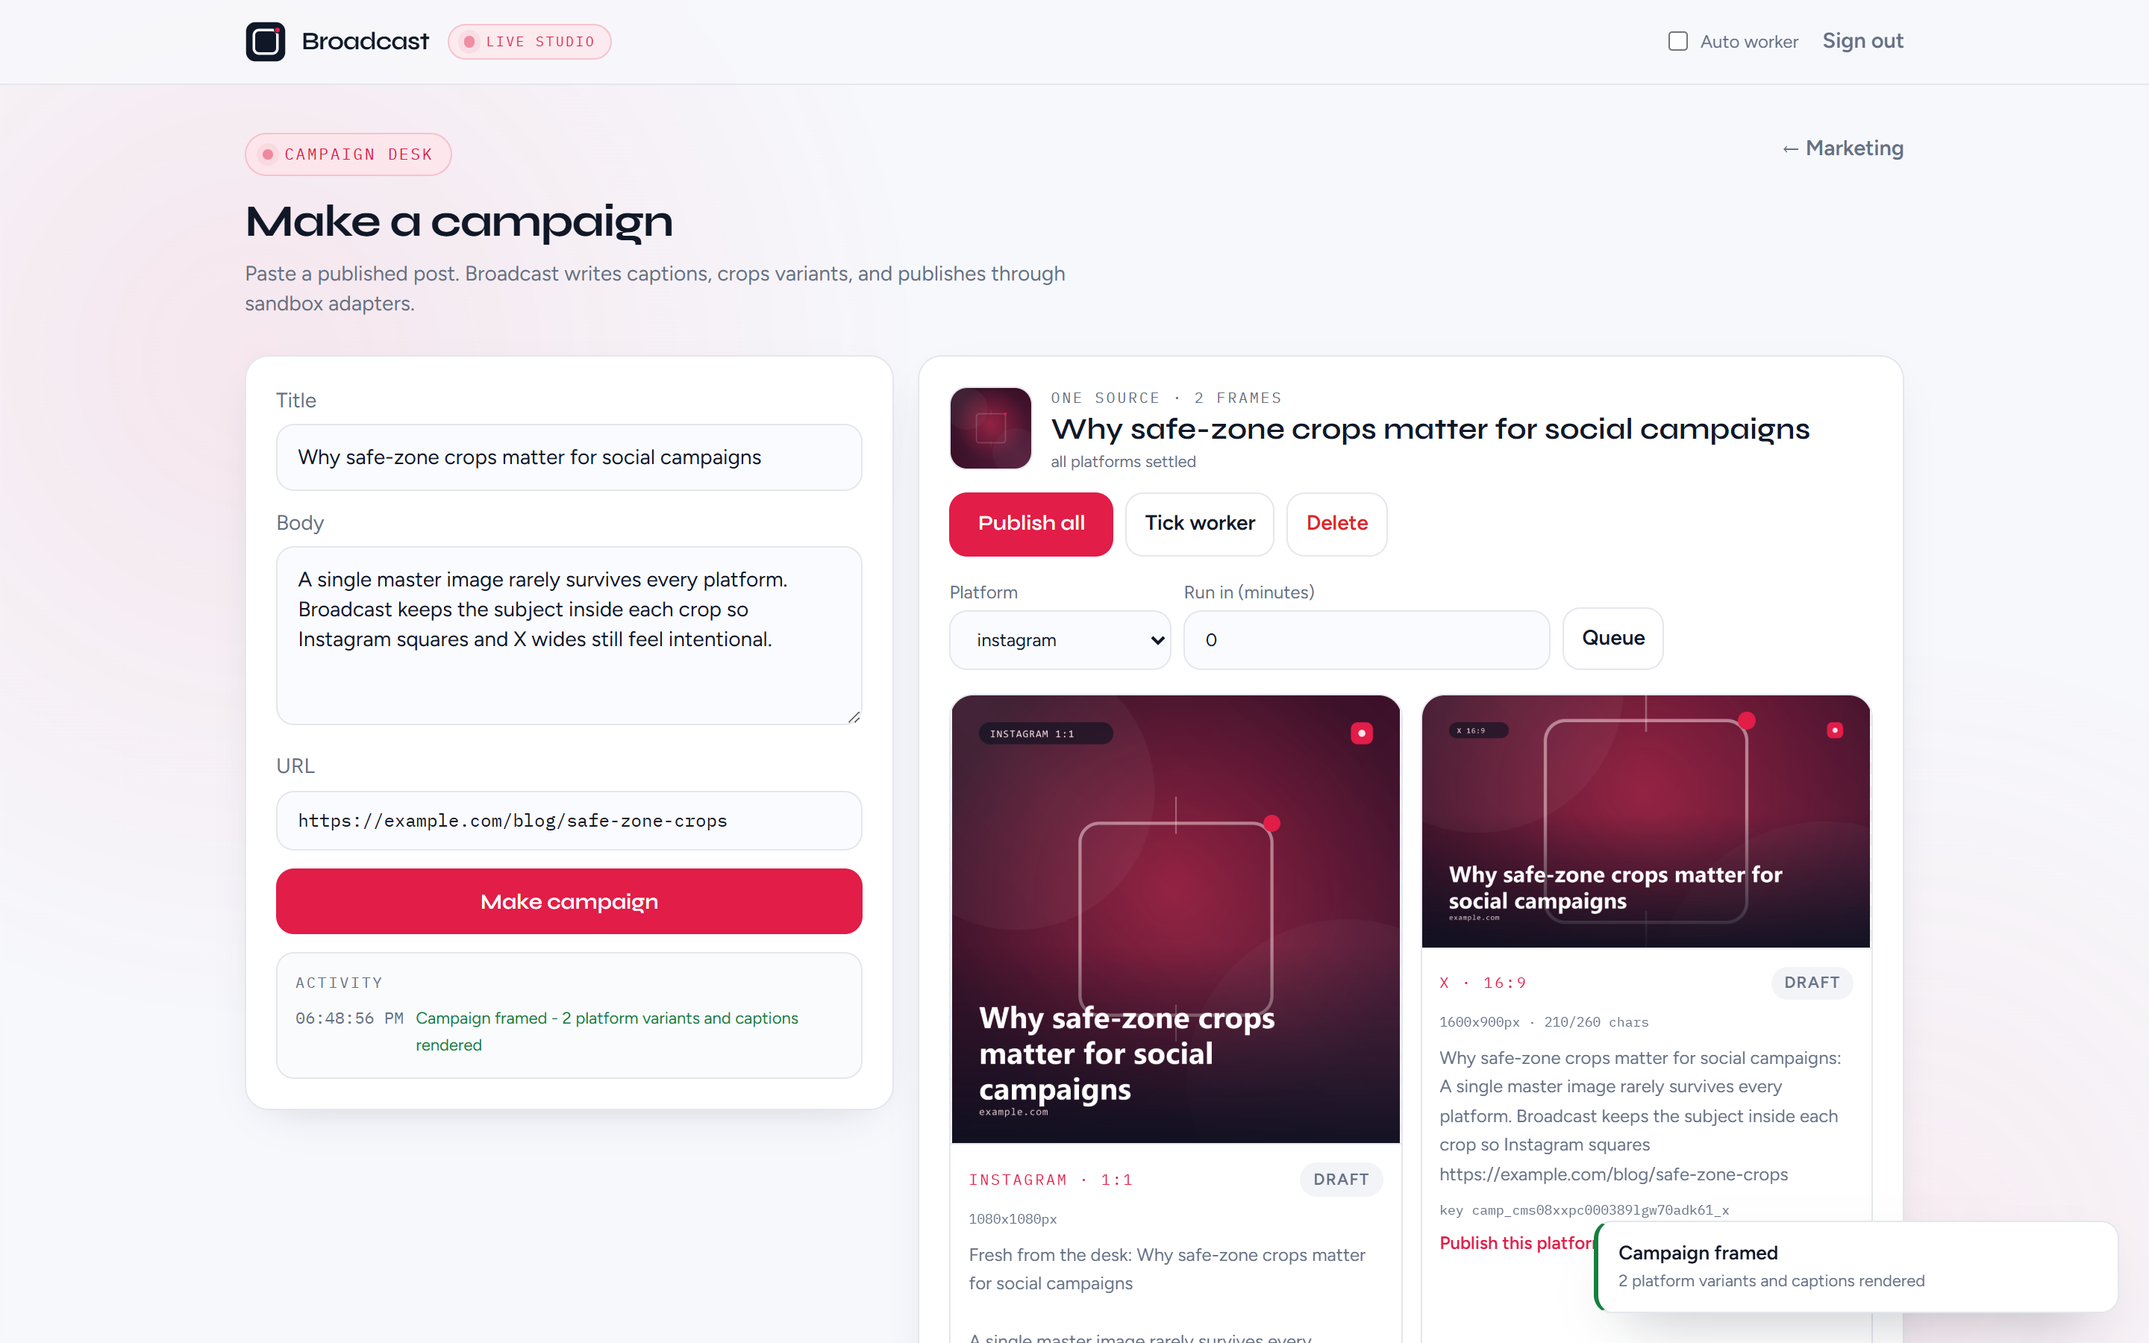
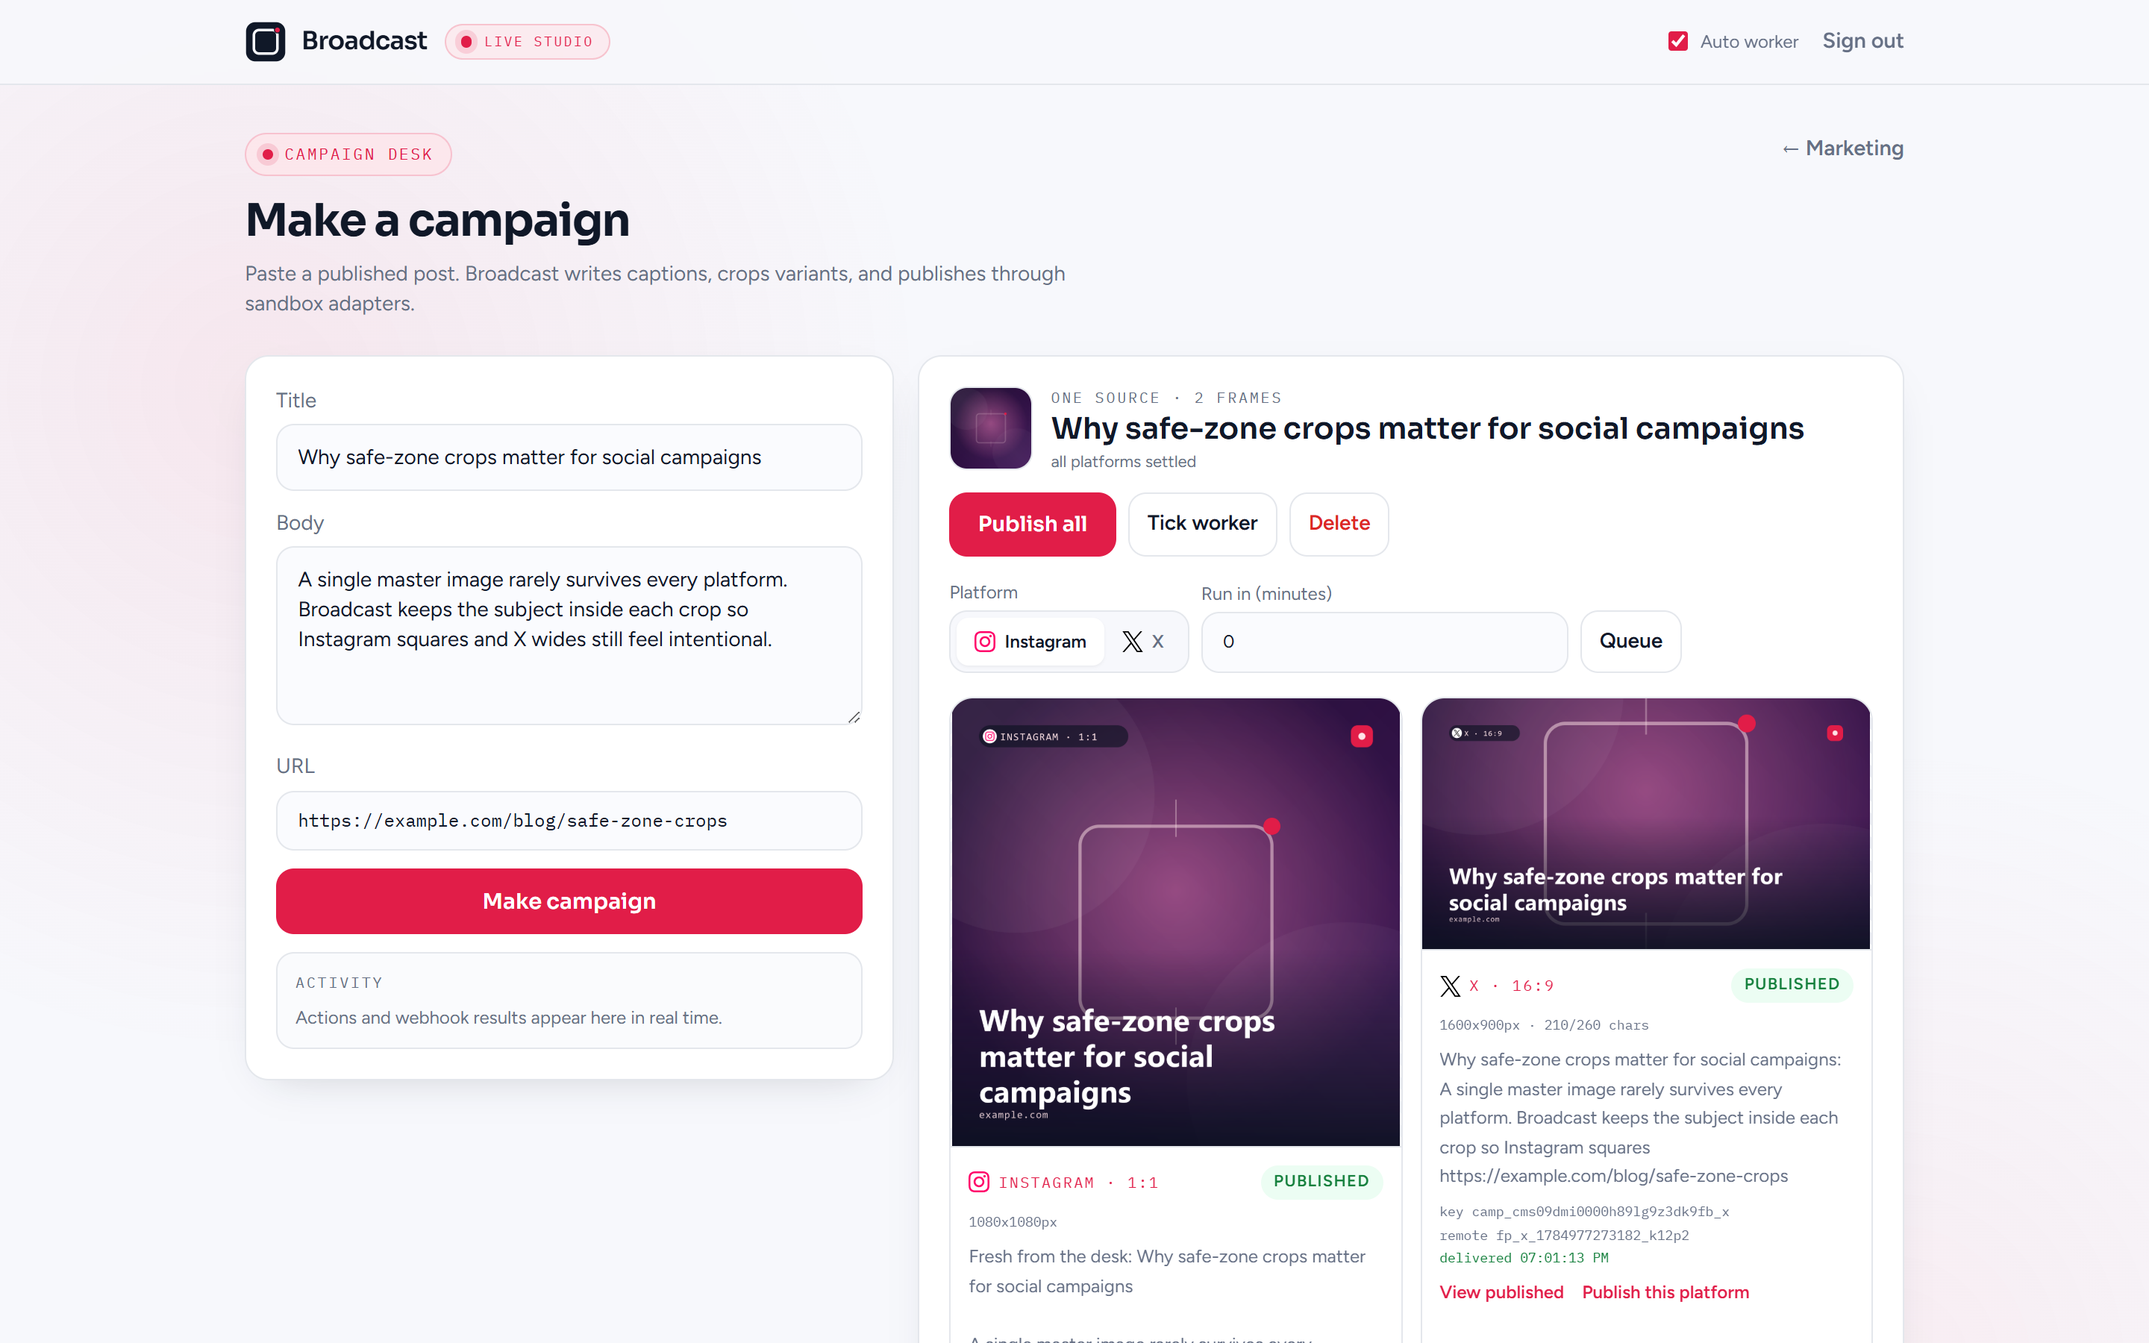
Use official Instagram and X glyphs across Broadcast

diff --git a/app/campaigns/campaigns-client.tsx b/app/campaigns/campaigns-client.tsx
@@ -4,6 +4,7 @@ import { useCallback, useEffect, useRef, useState } from "react";
 import Link from "next/link";
 import { motion, useReducedMotion } from "framer-motion";
 import { BrandLockup } from "@/components/BrandMark";
+import { PlatformIcon } from "@/components/PlatformIcon";
 
 type Post = {
   id: string;
@@ -511,20 +512,27 @@ export function CampaignsClient() {
                 </div>
 
                 <div className="flex flex-wrap items-end gap-2 mb-4">
-                  <label className="text-xs text-muted">
-                    Platform
-                    <select
-                      className="input-field !mt-1"
-                      value={schedulePlatform}
-                      onChange={(e) => setSchedulePlatform(e.target.value)}
-                    >
+                  <fieldset className="text-xs text-muted">
+                    <legend>Platform</legend>
+                    <div className="mt-1 inline-flex rounded-xl border border-line bg-canvas p-1">
                       {active.posts.map((p) => (
-                        <option key={p.platform} value={p.platform}>
-                          {p.platform}
-                        </option>
+                        <button
+                          key={p.platform}
+                          type="button"
+                          aria-pressed={schedulePlatform === p.platform}
+                          className={`inline-flex items-center gap-1.5 rounded-lg px-3 py-2 font-semibold transition-colors ${
+                            schedulePlatform === p.platform
+                              ? "bg-surface text-ink shadow-sm"
+                              : "text-muted hover:text-ink"
+                          }`}
+                          onClick={() => setSchedulePlatform(p.platform)}
+                        >
+                          <PlatformIcon platform={p.platform} className="h-3.5 w-3.5" />
+                          {specs[p.platform]?.label ?? p.platform}
+                        </button>
                       ))}
-                    </select>
-                  </label>
+                    </div>
+                  </fieldset>
                   <label className="text-xs text-muted">
                     Run in (minutes)
                     <input
@@ -567,8 +575,9 @@ export function CampaignsClient() {
                         </div>
                         <div className="p-3 space-y-2">
                           <div className="flex items-center justify-between gap-2">
-                            <span className="font-mono text-[10px] tracking-[0.14em] uppercase text-broadcast">
-                              {post.platform} {spec ? `· ${spec.aspect}` : ""}
+                            <span className="inline-flex items-center gap-1.5 font-mono text-[10px] tracking-[0.12em] uppercase text-broadcast">
+                              <PlatformIcon platform={post.platform} className="h-3.5 w-3.5" />
+                              {spec?.label ?? post.platform} {spec ? `· ${spec.aspect}` : ""}
                             </span>
                             <span className={`${statusBadge(post.status)} gap-1.5`}>
                               {post.status === "queued" && <span className="bc-spinner" />}

diff --git a/config/platform-brand.ts b/config/platform-brand.ts
@@ -1,0 +1,25 @@
+import type { PlatformKey } from "./platform-specs";
+
+/**
+ * Official brand glyph paths sourced from Simple Icons.
+ * Both use the brands' 24x24 viewBox geometry.
+ */
+export const PLATFORM_BRAND: Record<
+  PlatformKey,
+  { label: string; color: string; path: string }
+> = {
+  instagram: {
+    label: "Instagram",
+    color: "#FF0069",
+    path: "M7.0301.084c-1.2768.0602-2.1487.264-2.911.5634-.7888.3075-1.4575.72-2.1228 1.3877-.6652.6677-1.075 1.3368-1.3802 2.127-.2954.7638-.4956 1.6365-.552 2.914-.0564 1.2775-.0689 1.6882-.0626 4.947.0062 3.2586.0206 3.6671.0825 4.9473.061 1.2765.264 2.1482.5635 2.9107.308.7889.72 1.4573 1.388 2.1228.6679.6655 1.3365 1.0743 2.1285 1.38.7632.295 1.6361.4961 2.9134.552 1.2773.056 1.6884.069 4.9462.0627 3.2578-.0062 3.668-.0207 4.9478-.0814 1.28-.0607 2.147-.2652 2.9098-.5633.7889-.3086 1.4578-.72 2.1228-1.3881.665-.6682 1.0745-1.3378 1.3795-2.1284.2957-.7632.4966-1.636.552-2.9124.056-1.2809.0692-1.6898.063-4.948-.0063-3.2583-.021-3.6668-.0817-4.9465-.0607-1.2797-.264-2.1487-.5633-2.9117-.3084-.7889-.72-1.4568-1.3876-2.1228C21.2982 1.33 20.628.9208 19.8378.6165 19.074.321 18.2017.1197 16.9244.0645 15.6471.0093 15.236-.005 11.977.0014 8.718.0076 8.31.0215 7.0301.0839m.1402 21.6932c-1.17-.0509-1.8053-.2453-2.2287-.408-.5606-.216-.96-.4771-1.3819-.895-.422-.4178-.6811-.8186-.9-1.378-.1644-.4234-.3624-1.058-.4171-2.228-.0595-1.2645-.072-1.6442-.079-4.848-.007-3.2037.0053-3.583.0607-4.848.05-1.169.2456-1.805.408-2.2282.216-.5613.4762-.96.895-1.3816.4188-.4217.8184-.6814 1.3783-.9003.423-.1651 1.0575-.3614 2.227-.4171 1.2655-.06 1.6447-.072 4.848-.079 3.2033-.007 3.5835.005 4.8495.0608 1.169.0508 1.8053.2445 2.228.408.5608.216.96.4754 1.3816.895.4217.4194.6816.8176.9005 1.3787.1653.4217.3617 1.056.4169 2.2263.0602 1.2655.0739 1.645.0796 4.848.0058 3.203-.0055 3.5834-.061 4.848-.051 1.17-.245 1.8055-.408 2.2294-.216.5604-.4763.96-.8954 1.3814-.419.4215-.8181.6811-1.3783.9-.4224.1649-1.0577.3617-2.2262.4174-1.2656.0595-1.6448.072-4.8493.079-3.2045.007-3.5825-.006-4.848-.0608M16.953 5.5864A1.44 1.44 0 1 0 18.39 4.144a1.44 1.44 0 0 0-1.437 1.4424M5.8385 12.012c.0067 3.4032 2.7706 6.1557 6.173 6.1493 3.4026-.0065 6.157-2.7701 6.1506-6.1733-.0065-3.4032-2.771-6.1565-6.174-6.1498-3.403.0067-6.156 2.771-6.1496 6.1738M8 12.0077a4 4 0 1 1 4.008 3.9921A3.9996 3.9996 0 0 1 8 12.0077",
+  },
+  x: {
+    label: "X",
+    color: "#000000",
+    path: "M14.234 10.162 22.977 0h-2.072l-7.591 8.824L7.251 0H.258l9.168 13.343L.258 24H2.33l8.016-9.318L16.749 24h6.993zm-2.837 3.299-.929-1.329L3.076 1.56h3.182l5.965 8.532.929 1.329 7.754 11.09h-3.182z",
+  },
+};
+
+export function isPlatformKey(value: string): value is PlatformKey {
+  return value === "instagram" || value === "x";
+}

diff --git a/components/HeroArt.tsx b/components/HeroArt.tsx
@@ -1,5 +1,7 @@
 "use client";
 
+import { PLATFORM_BRAND } from "@/config/platform-brand";
+
 /**
  * Hero side art: an Instagram 1:1 frame and an X 16:9 frame cut from one
  * source. Authored as SVG with a fixed viewBox so it never distorts.
@@ -36,15 +38,21 @@ export function HeroArt({ side }: { side: "left" | "right" }) {
             opacity="0.55"
           />
           <circle cx="216" cy="78" r="9" fill="#E11D48" />
+          <g transform="translate(108 130) scale(2.2)" fill="#FF0069" opacity="0.9">
+            <path d={PLATFORM_BRAND.instagram.path} />
+          </g>
+          <g transform="translate(44 274) scale(.58)" fill="#FF0069">
+            <path d={PLATFORM_BRAND.instagram.path} />
+          </g>
           <text
-            x="44"
+            x="63"
             y="286"
             fontFamily="IBM Plex Mono, monospace"
             fontSize="11"
             letterSpacing="1.6"
             fill="#667085"
           >
-            1:1 INSTAGRAM
+            INSTAGRAM · 1:1
           </text>
           <rect x="28" y="304" width="188" height="9" rx="4.5" fill="#101828" opacity="0.16" />
           <rect x="28" y="322" width="140" height="9" rx="4.5" fill="#101828" opacity="0.1" />
@@ -65,15 +73,21 @@ export function HeroArt({ side }: { side: "left" | "right" }) {
             opacity="0.5"
           />
           <circle cx="274" cy="90" r="9" fill="#E11D48" />
+          <g transform="translate(166 126) scale(1.15)" fill="#ffffff" opacity="0.92">
+            <path d={PLATFORM_BRAND.x.path} />
+          </g>
+          <g transform="translate(60 216) scale(.58)" fill="#000000">
+            <path d={PLATFORM_BRAND.x.path} />
+          </g>
           <text
-            x="60"
+            x="79"
             y="228"
             fontFamily="IBM Plex Mono, monospace"
             fontSize="11"
             letterSpacing="1.6"
             fill="#667085"
           >
-            16:9 X
+            X · 16:9
           </text>
           <rect x="60" y="246" width="200" height="9" rx="4.5" fill="#101828" opacity="0.16" />
           <rect x="60" y="264" width="152" height="9" rx="4.5" fill="#101828" opacity="0.1" />

diff --git a/lib/images/variants.ts b/lib/images/variants.ts
@@ -1,6 +1,7 @@
 import fs from "fs";
 import path from "path";
 import sharp from "sharp";
+import { PLATFORM_BRAND } from "@/config/platform-brand";
 import { PLATFORM_SPECS, type PlatformKey } from "@/config/platform-specs";
 
 const ROOT = process.cwd();
@@ -136,6 +137,7 @@ function overlaySvg(
   height: number
 ): Buffer {
   const spec = PLATFORM_SPECS[platform];
+  const brand = PLATFORM_BRAND[platform];
   const pad = Math.round(width * 0.06);
   const titleSize = Math.round(width * (platform === "instagram" ? 0.068 : 0.05));
   const maxLines = platform === "instagram" ? 3 : 2;
@@ -146,8 +148,11 @@ function overlaySvg(
   const baseY = height - pad - metaSize * 1.6;
   const titleTop = baseY - lines.length * lineGap;
 
-  const chipW = Math.round(metaSize * (spec.label.length + spec.aspect.length + 6) * 0.72);
+  const chipW = Math.round(metaSize * (spec.label.length + spec.aspect.length + 8) * 0.72);
   const chipH = Math.round(metaSize * 2.1);
+  const iconSize = chipH * 0.42;
+  const iconX = pad + chipH * 0.28;
+  const iconY = pad + (chipH - iconSize) / 2;
 
   const titleTspans = lines
     .map(
@@ -169,10 +174,15 @@ function overlaySvg(
 
       <rect x="${pad}" y="${pad}" width="${chipW}" height="${chipH}" rx="${chipH / 2}"
             fill="#0b1120" opacity="0.62"/>
-      <text x="${pad + chipH * 0.5}" y="${pad + chipH * 0.68}"
+      <circle cx="${iconX + iconSize / 2}" cy="${iconY + iconSize / 2}" r="${iconSize * 0.76}"
+              fill="#ffffff"/>
+      <g transform="translate(${iconX} ${iconY}) scale(${iconSize / 24})" fill="${brand.color}">
+        <path d="${brand.path}"/>
+      </g>
+      <text x="${pad + chipH * 0.96}" y="${pad + chipH * 0.68}"
             font-family="IBM Plex Mono, Consolas, monospace" font-size="${metaSize}"
             fill="#FFE4E8" letter-spacing="${metaSize * 0.08}">${esc(
-              `${spec.label.toUpperCase()} ${spec.aspect}`
+              `${spec.label.toUpperCase()} · ${spec.aspect}`
             )}</text>
 
       <rect x="${width - pad - chipH}" y="${pad}" width="${chipH}" height="${chipH}" rx="${chipH * 0.3}"

diff --git a/components/MarqueeBand.tsx b/components/MarqueeBand.tsx
@@ -1,6 +1,7 @@
 "use client";
 
 import { useReducedMotion } from "framer-motion";
+import { PlatformIcon } from "@/components/PlatformIcon";
 
 /**
  * Full-bleed horizontal marquee that fills the space under the hero.
@@ -11,16 +12,16 @@ import { useReducedMotion } from "framer-motion";
 
 type Token =
   | { kind: "aspect"; label: string }
-  | { kind: "platform"; label: string }
+  | { kind: "platform"; label: string; platform: "instagram" | "x" }
   | { kind: "status"; label: string; tone: "queued" | "published" | "failed" }
   | { kind: "word"; label: string };
 
 const ROW_A: Token[] = [
-  { kind: "platform", label: "Instagram" },
+  { kind: "platform", label: "Instagram", platform: "instagram" },
   { kind: "aspect", label: "1:1" },
   { kind: "word", label: "Safe-zone crop" },
   { kind: "status", label: "queued", tone: "queued" },
-  { kind: "platform", label: "X" },
+  { kind: "platform", label: "X", platform: "x" },
   { kind: "aspect", label: "16:9" },
   { kind: "word", label: "Fragment captions" },
   { kind: "status", label: "published", tone: "published" },
@@ -32,12 +33,12 @@ const ROW_B: Token[] = [
   { kind: "word", label: "429 aware" },
   { kind: "status", label: "published", tone: "published" },
   { kind: "word", label: "Signed webhook" },
-  { kind: "platform", label: "Instagram" },
+  { kind: "platform", label: "Instagram", platform: "instagram" },
   { kind: "word", label: "Encrypted tokens" },
   { kind: "aspect", label: "16:9" },
   { kind: "word", label: "Durable worker" },
   { kind: "status", label: "queued", tone: "queued" },
-  { kind: "platform", label: "X" },
+  { kind: "platform", label: "X", platform: "x" },
   { kind: "word", label: "One source, every frame" },
 ];
 
@@ -53,7 +54,7 @@ function Chip({ token }: { token: Token }) {
   if (token.kind === "platform") {
     return (
       <span className="bc-marquee-chip bc-marquee-chip--platform">
-        <span className="bc-marquee-frame" aria-hidden="true" />
+        <PlatformIcon platform={token.platform} className="w-3.5 h-3.5" />
         {token.label}
       </span>
     );

diff --git a/app/landing-page.tsx b/app/landing-page.tsx
@@ -13,6 +13,7 @@ import {
 import { BrandLockup } from "@/components/BrandMark";
 import { HeroArt } from "@/components/HeroArt";
 import { MarqueeBand } from "@/components/MarqueeBand";
+import { PlatformIcon } from "@/components/PlatformIcon";
 import { useLenis } from "@/hooks/useLenis";
 
 const EASE = [0.22, 1, 0.36, 1] as const;
@@ -137,16 +138,19 @@ export default function LandingPage() {
                 n: "01",
                 title: "Fragment captions",
                 body: "Shared openers plus platform voice fragments - Instagram stays visual, X stays punchy.",
+                platforms: ["instagram", "x"],
               },
               {
                 n: "02",
                 title: "Safe-zone variants",
                 body: "One source becomes 1:1 and 16:9 with the subject kept inside the crop inset.",
+                platforms: ["instagram", "x"],
               },
               {
                 n: "03",
                 title: "Adapter publish",
                 body: "SocialPublisher drives fake Instagram and X - idempotent keys, 429 backoff, signed webhooks.",
+                platforms: ["instagram", "x"],
               },
             ].map((step, i) => (
               <motion.article
@@ -165,6 +169,16 @@ export default function LandingPage() {
                   {step.title}
                 </h3>
                 <p className="text-sm text-muted leading-relaxed">{step.body}</p>
+                <div className="mt-4 flex items-center gap-2" aria-label="Supported platforms">
+                  {step.platforms.map((platform) => (
+                    <span
+                      key={platform}
+                      className="inline-flex h-7 w-7 items-center justify-center rounded-lg border border-line bg-canvas"
+                    >
+                      <PlatformIcon platform={platform} className="h-3.5 w-3.5" />
+                    </span>
+                  ))}
+                </div>
               </motion.article>
             ))}
           </div>

diff --git a/components/PlatformIcon.tsx b/components/PlatformIcon.tsx
@@ -1,0 +1,31 @@
+import { PLATFORM_BRAND, isPlatformKey } from "@/config/platform-brand";
+
+export function PlatformIcon({
+  platform,
+  className = "w-4 h-4",
+  branded = true,
+  title,
+}: {
+  platform: string;
+  className?: string;
+  branded?: boolean;
+  title?: string;
+}) {
+  if (!isPlatformKey(platform)) return null;
+  const brand = PLATFORM_BRAND[platform];
+
+  return (
+    <svg
+      viewBox="0 0 24 24"
+      className={className}
+      fill="currentColor"
+      style={branded ? { color: brand.color } : undefined}
+      role={title ? "img" : undefined}
+      aria-hidden={title ? undefined : true}
+      focusable="false"
+    >
+      {title && <title>{title}</title>}
+      <path d={brand.path} />
+    </svg>
+  );
+}

diff --git a/scripts/regenerate-variants.ts b/scripts/regenerate-variants.ts
@@ -1,0 +1,24 @@
+import { prisma } from "../lib/db";
+import { PLATFORM_KEYS } from "../config/platform-specs";
+import { buildAllVariants, variantsDir } from "../lib/images/variants";
+import fs from "fs";
+
+async function main() {
+  const campaigns = await prisma.campaign.findMany();
+  for (const campaign of campaigns) {
+    fs.rmSync(variantsDir(campaign.id), { recursive: true, force: true });
+    await buildAllVariants(campaign.id, PLATFORM_KEYS, {
+      title: campaign.title,
+      body: campaign.body,
+      url: campaign.url,
+    });
+    console.log(`regenerated ${campaign.id}`);
+  }
+}
+
+main()
+  .finally(() => prisma.$disconnect())
+  .catch((error) => {
+    console.error(error);
+    process.exitCode = 1;
+  });

diff --git a/docs/DESIGN.md b/docs/DESIGN.md
@@ -29,6 +29,10 @@ Harness (Lenis, motion, README, git) still follows `capstone-signal-design`.
 ## Brand mark
 
 Rounded crop frame with a rose live corner dot. `BrandMark.tsx` === `favicon.svg`.
+Broadcast keeps that product mark separate from platform identity. Wherever the
+UI identifies a publishing target, it uses the official Instagram or X glyph
+from Simple Icons (`config/platform-brand.ts`) instead of a generic crop-frame
+placeholder. The same glyphs are burned into generated platform artwork.
 
 ## Hero art
 
